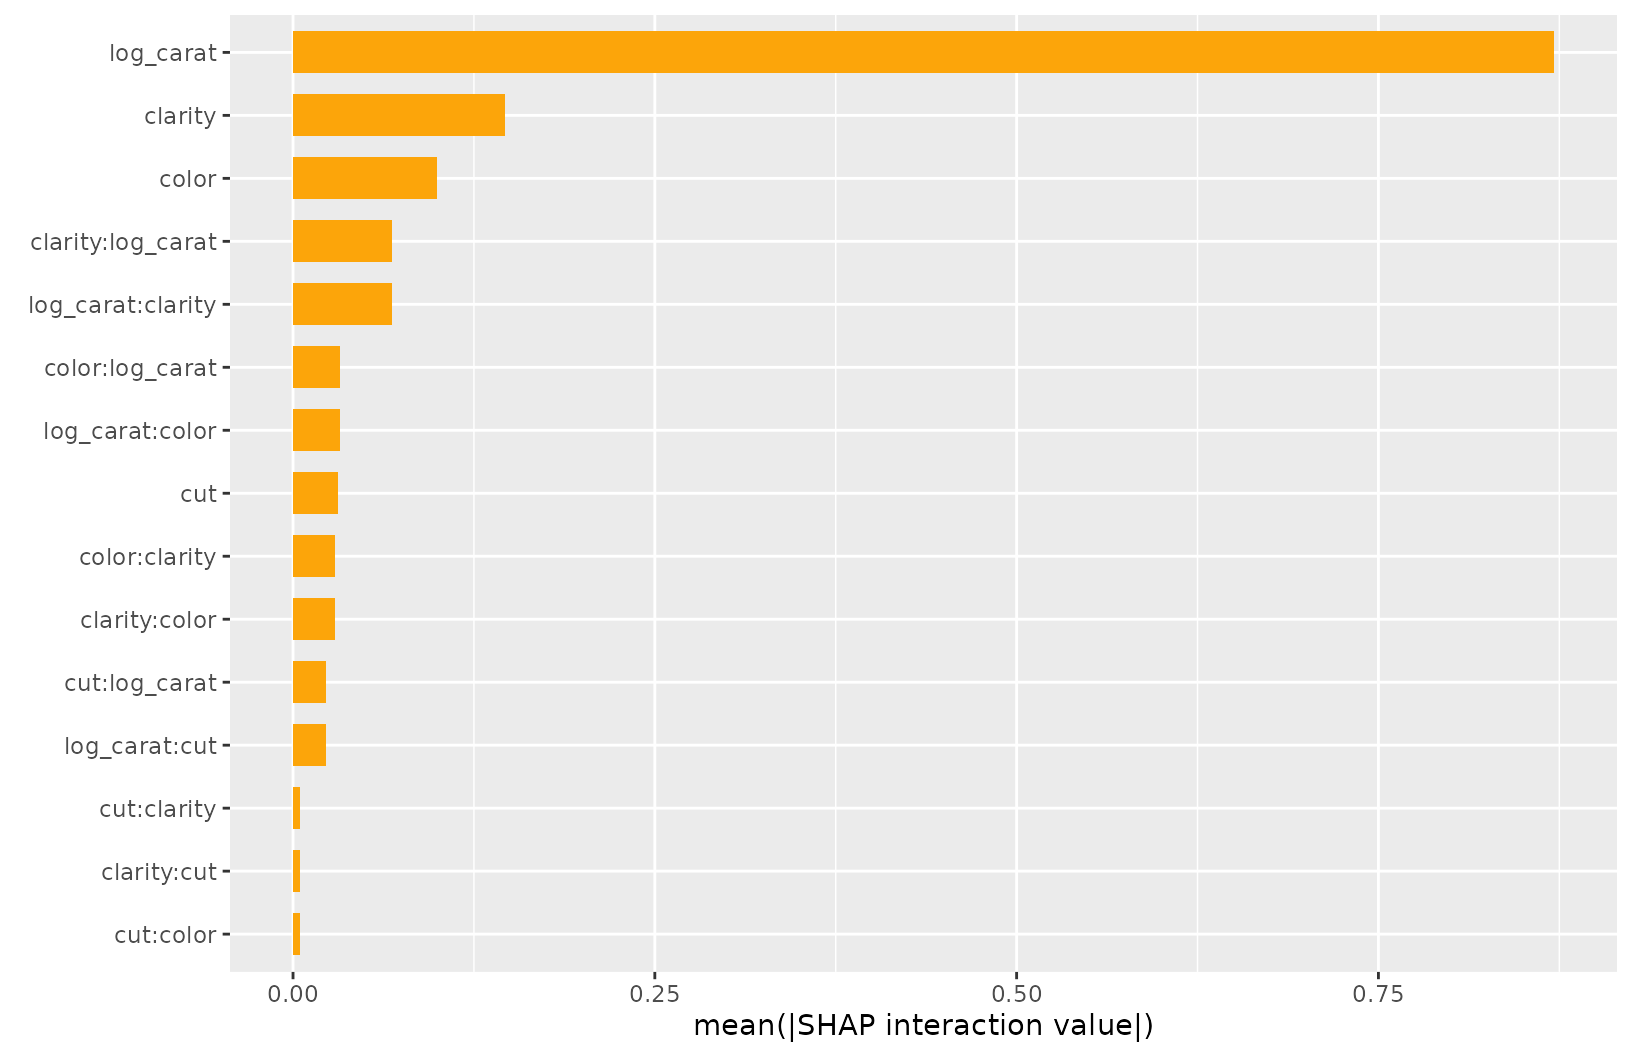
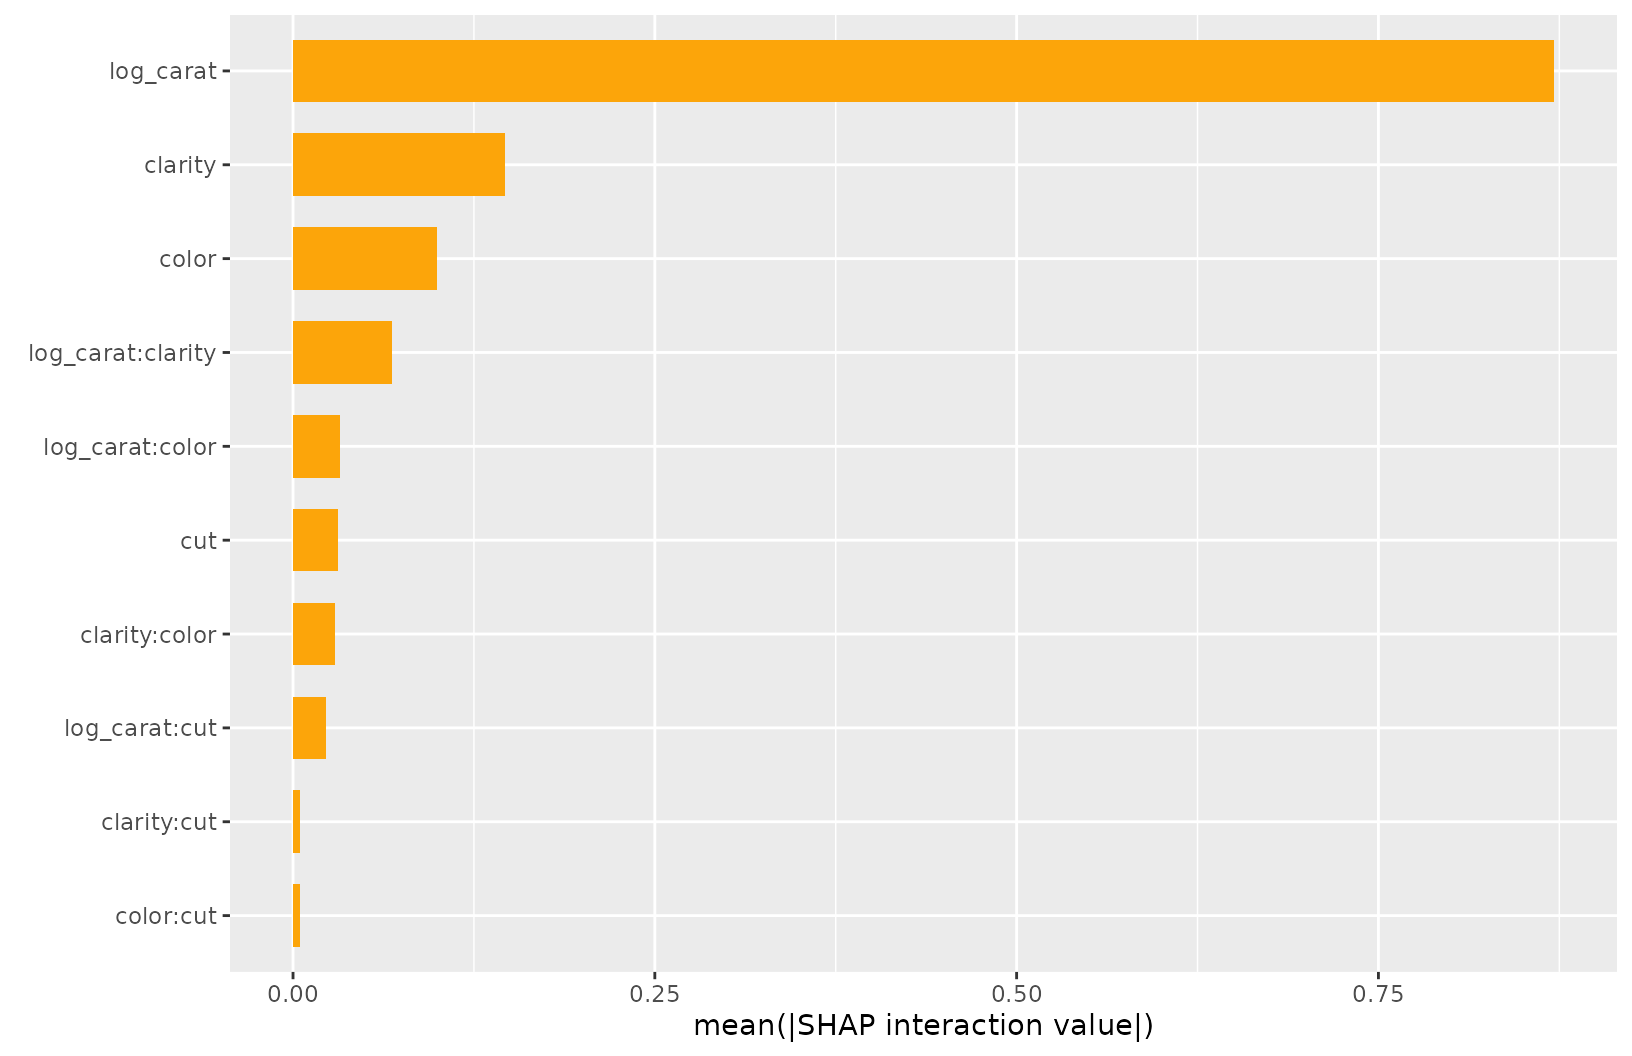
Deploying to gh-pages from @ ModelOriented/shapviz@65ad0724775ab26f69312356ee2ed3acc98b0e36 🚀

diff --git a/news/index.html b/news/index.html
@@ -25,7 +25,7 @@
         <div class="info">
           <span class="partof">part of the <a href="https://github.com/ModelOriented/DrWhy" class="external-link">DrWhy.AI</a>
            developed by the <a href="https://mi2.ai/" class="external-link">MI².AI</a> </span>
-          <span class="version version-default">0.10.1</span>
+          <span class="version version-default">0.10.2</span>
         </div>
       </div>
     </div>
@@ -71,9 +71,17 @@
   <div class="col-md-9 contents">
     <div class="page-header">
       <h1 data-toc-skip>Changelog <small></small></h1>
-      <small>Source: <a href="https://github.com/ModelOriented/shapviz/blob/0.10.1/NEWS.md" class="external-link"><code>NEWS.md</code></a></small>
+      <small>Source: <a href="https://github.com/ModelOriented/shapviz/blob/main/NEWS.md" class="external-link"><code>NEWS.md</code></a></small>
     </div>
 
+    <div class="section level2">
+<h2 class="page-header" data-toc-text="0.10.2" id="shapviz-0102">shapviz 0.10.2<a class="anchor" aria-label="anchor" href="#shapviz-0102"></a></h2>
+<div class="section level4">
+<h4 id="bug-fixes-0-10-2">Bug fixes<a class="anchor" aria-label="anchor" href="#bug-fixes-0-10-2"></a></h4>
+<ul><li>
+<code>sv_interaction(..., type = "bar")</code>: Bars of feature pairs appeared twice, see <a href="%5Bhttps://github.com/ModelOriented/shapviz/issues/178%5D" class="external-link">#178</a>.</li>
+</ul></div>
+</div>
     <div class="section level2">
 <h2 class="page-header" data-toc-text="0.10.1" id="shapviz-0101">shapviz 0.10.1<small>2025-06-23</small><a class="anchor" aria-label="anchor" href="#shapviz-0101"></a></h2>
 <div class="section level4">

diff --git a/authors.html b/authors.html
@@ -25,7 +25,7 @@
         <div class="info">
           <span class="partof">part of the <a href="https://github.com/ModelOriented/DrWhy" class="external-link">DrWhy.AI</a>
            developed by the <a href="https://mi2.ai/" class="external-link">MI².AI</a> </span>
-          <span class="version version-default">0.10.1</span>
+          <span class="version version-default">0.10.2</span>
         </div>
       </div>
     </div>
@@ -87,20 +87,20 @@
     <div class="section level2 citation-section">
     <div>
       <h1 id="citation">Citation</h1>
-      <small class="dont-index">Source: <a href="https://github.com/ModelOriented/shapviz/blob/0.10.1/DESCRIPTION" class="external-link"><code>DESCRIPTION</code></a></small>
+      <small class="dont-index">Source: <a href="https://github.com/ModelOriented/shapviz/blob/main/DESCRIPTION" class="external-link"><code>DESCRIPTION</code></a></small>
     </div>
     </div>
 
 
     <p>Mayer M (2025).
 <em>shapviz: SHAP Visualizations</em>.
-R package version 0.10.1, <a href="https://github.com/ModelOriented/shapviz" class="external-link">https://github.com/ModelOriented/shapviz</a>.
+R package version 0.10.2, <a href="https://github.com/ModelOriented/shapviz" class="external-link">https://github.com/ModelOriented/shapviz</a>.
 </p>
     <pre>@Manual{,
   title = {shapviz: SHAP Visualizations},
   author = {Michael Mayer},
   year = {2025},
-  note = {R package version 0.10.1},
+  note = {R package version 0.10.2},
   url = {https://github.com/ModelOriented/shapviz},
 }</pre>
 

diff --git a/reference/potential_interactions.html b/reference/potential_interactions.html
@@ -26,7 +26,7 @@ variables, see Details."><meta property="og:image" content="/logo.png"><meta nam
         <div class="info">
           <span class="partof">part of the <a href="https://github.com/ModelOriented/DrWhy" class="external-link">DrWhy.AI</a>
            developed by the <a href="https://mi2.ai/" class="external-link">MI².AI</a> </span>
-          <span class="version version-default">0.10.1</span>
+          <span class="version version-default">0.10.2</span>
         </div>
       </div>
     </div>
@@ -72,7 +72,7 @@ variables, see Details."><meta property="og:image" content="/logo.png"><meta nam
   <div class="col-md-9 contents">
     <div class="page-header">
     <h1>Interaction Strength</h1>
-    <small class="dont-index">Source: <a href="https://github.com/ModelOriented/shapviz/blob/0.10.1/R/potential_interactions.R" class="external-link"><code>R/potential_interactions.R</code></a></small>
+    <small class="dont-index">Source: <a href="https://github.com/ModelOriented/shapviz/blob/main/R/potential_interactions.R" class="external-link"><code>R/potential_interactions.R</code></a></small>
     <div class="hidden name"><code>potential_interactions.Rd</code></div>
     </div>
 

diff --git a/reference/shapviz-package.html b/reference/shapviz-package.html
@@ -26,7 +26,7 @@ Visualizations for SHAP (SHapley Additive exPlanations), such as waterfall plots
         <div class="info">
           <span class="partof">part of the <a href="https://github.com/ModelOriented/DrWhy" class="external-link">DrWhy.AI</a>
            developed by the <a href="https://mi2.ai/" class="external-link">MI².AI</a> </span>
-          <span class="version version-default">0.10.1</span>
+          <span class="version version-default">0.10.2</span>
         </div>
       </div>
     </div>
@@ -72,7 +72,7 @@ Visualizations for SHAP (SHapley Additive exPlanations), such as waterfall plots
   <div class="col-md-9 contents">
     <div class="page-header">
     <h1>shapviz: SHAP Visualizations</h1>
-    <small class="dont-index">Source: <a href="https://github.com/ModelOriented/shapviz/blob/0.10.1/R/shapviz-package.R" class="external-link"><code>R/shapviz-package.R</code></a></small>
+    <small class="dont-index">Source: <a href="https://github.com/ModelOriented/shapviz/blob/main/R/shapviz-package.R" class="external-link"><code>R/shapviz-package.R</code></a></small>
     <div class="hidden name"><code>shapviz-package.Rd</code></div>
     </div>
 

diff --git a/reference/sv_dependence2D.html b/reference/sv_dependence2D.html
@@ -31,7 +31,7 @@ has no effect."><meta property="og:image" content="/logo.png"><meta name="robots
         <div class="info">
           <span class="partof">part of the <a href="https://github.com/ModelOriented/DrWhy" class="external-link">DrWhy.AI</a>
            developed by the <a href="https://mi2.ai/" class="external-link">MI².AI</a> </span>
-          <span class="version version-default">0.10.1</span>
+          <span class="version version-default">0.10.2</span>
         </div>
       </div>
     </div>
@@ -77,7 +77,7 @@ has no effect."><meta property="og:image" content="/logo.png"><meta name="robots
   <div class="col-md-9 contents">
     <div class="page-header">
     <h1>2D SHAP Dependence Plot</h1>
-    <small class="dont-index">Source: <a href="https://github.com/ModelOriented/shapviz/blob/0.10.1/R/sv_dependence2D.R" class="external-link"><code>R/sv_dependence2D.R</code></a></small>
+    <small class="dont-index">Source: <a href="https://github.com/ModelOriented/shapviz/blob/main/R/sv_dependence2D.R" class="external-link"><code>R/sv_dependence2D.R</code></a></small>
     <div class="hidden name"><code>sv_dependence2D.Rd</code></div>
     </div>
 

diff --git a/reference/sv_interaction.html b/reference/sv_interaction.html
@@ -33,7 +33,7 @@ Again, due to symmetry, the interaction values are multiplied by two.'><meta pro
         <div class="info">
           <span class="partof">part of the <a href="https://github.com/ModelOriented/DrWhy" class="external-link">DrWhy.AI</a>
            developed by the <a href="https://mi2.ai/" class="external-link">MI².AI</a> </span>
-          <span class="version version-default">0.10.1</span>
+          <span class="version version-default">0.10.2</span>
         </div>
       </div>
     </div>
@@ -79,7 +79,7 @@ Again, due to symmetry, the interaction values are multiplied by two.'><meta pro
   <div class="col-md-9 contents">
     <div class="page-header">
     <h1>SHAP Interaction Plot</h1>
-    <small class="dont-index">Source: <a href="https://github.com/ModelOriented/shapviz/blob/0.10.1/R/sv_interaction.R" class="external-link"><code>R/sv_interaction.R</code></a></small>
+    <small class="dont-index">Source: <a href="https://github.com/ModelOriented/shapviz/blob/main/R/sv_interaction.R" class="external-link"><code>R/sv_interaction.R</code></a></small>
     <div class="hidden name"><code>sv_interaction.Rd</code></div>
     </div>
 

diff --git a/reference/sv_importance.html b/reference/sv_importance.html
@@ -27,7 +27,7 @@ The two types of plots can also be combined.'><meta property="og:image" content=
         <div class="info">
           <span class="partof">part of the <a href="https://github.com/ModelOriented/DrWhy" class="external-link">DrWhy.AI</a>
            developed by the <a href="https://mi2.ai/" class="external-link">MI².AI</a> </span>
-          <span class="version version-default">0.10.1</span>
+          <span class="version version-default">0.10.2</span>
         </div>
       </div>
     </div>
@@ -73,7 +73,7 @@ The two types of plots can also be combined.'><meta property="og:image" content=
   <div class="col-md-9 contents">
     <div class="page-header">
     <h1>SHAP Importance Plots</h1>
-    <small class="dont-index">Source: <a href="https://github.com/ModelOriented/shapviz/blob/0.10.1/R/sv_importance.R" class="external-link"><code>R/sv_importance.R</code></a></small>
+    <small class="dont-index">Source: <a href="https://github.com/ModelOriented/shapviz/blob/main/R/sv_importance.R" class="external-link"><code>R/sv_importance.R</code></a></small>
     <div class="hidden name"><code>sv_importance.Rd</code></div>
     </div>
 

diff --git a/reference/collapse_shap.html b/reference/collapse_shap.html
@@ -28,7 +28,7 @@ original factor."><meta property="og:image" content="/logo.png"><meta name="robo
         <div class="info">
           <span class="partof">part of the <a href="https://github.com/ModelOriented/DrWhy" class="external-link">DrWhy.AI</a>
            developed by the <a href="https://mi2.ai/" class="external-link">MI².AI</a> </span>
-          <span class="version version-default">0.10.1</span>
+          <span class="version version-default">0.10.2</span>
         </div>
       </div>
     </div>
@@ -74,7 +74,7 @@ original factor."><meta property="og:image" content="/logo.png"><meta name="robo
   <div class="col-md-9 contents">
     <div class="page-header">
     <h1>Collapse SHAP values</h1>
-    <small class="dont-index">Source: <a href="https://github.com/ModelOriented/shapviz/blob/0.10.1/R/collapse_shap.R" class="external-link"><code>R/collapse_shap.R</code></a></small>
+    <small class="dont-index">Source: <a href="https://github.com/ModelOriented/shapviz/blob/main/R/collapse_shap.R" class="external-link"><code>R/collapse_shap.R</code></a></small>
     <div class="hidden name"><code>collapse_shap.Rd</code></div>
     </div>
 

diff --git a/reference/sv_waterfall.html b/reference/sv_waterfall.html
@@ -26,7 +26,7 @@ observations are selected, their SHAP values and predictions are averaged."><met
         <div class="info">
           <span class="partof">part of the <a href="https://github.com/ModelOriented/DrWhy" class="external-link">DrWhy.AI</a>
            developed by the <a href="https://mi2.ai/" class="external-link">MI².AI</a> </span>
-          <span class="version version-default">0.10.1</span>
+          <span class="version version-default">0.10.2</span>
         </div>
       </div>
     </div>
@@ -72,7 +72,7 @@ observations are selected, their SHAP values and predictions are averaged."><met
   <div class="col-md-9 contents">
     <div class="page-header">
     <h1>SHAP Waterfall Plot</h1>
-    <small class="dont-index">Source: <a href="https://github.com/ModelOriented/shapviz/blob/0.10.1/R/sv_waterfall.R" class="external-link"><code>R/sv_waterfall.R</code></a></small>
+    <small class="dont-index">Source: <a href="https://github.com/ModelOriented/shapviz/blob/main/R/sv_waterfall.R" class="external-link"><code>R/sv_waterfall.R</code></a></small>
     <div class="hidden name"><code>sv_waterfall.Rd</code></div>
     </div>
 

diff --git a/reference/format_max.html b/reference/format_max.html
@@ -27,7 +27,7 @@ perfectly aligning numbers on plots. Does not use scientific formatting."><meta 
         <div class="info">
           <span class="partof">part of the <a href="https://github.com/ModelOriented/DrWhy" class="external-link">DrWhy.AI</a>
            developed by the <a href="https://mi2.ai/" class="external-link">MI².AI</a> </span>
-          <span class="version version-default">0.10.1</span>
+          <span class="version version-default">0.10.2</span>
         </div>
       </div>
     </div>
@@ -73,7 +73,7 @@ perfectly aligning numbers on plots. Does not use scientific formatting."><meta 
   <div class="col-md-9 contents">
     <div class="page-header">
     <h1>Number Formatter</h1>
-    <small class="dont-index">Source: <a href="https://github.com/ModelOriented/shapviz/blob/0.10.1/R/sv_importance.R" class="external-link"><code>R/sv_importance.R</code></a></small>
+    <small class="dont-index">Source: <a href="https://github.com/ModelOriented/shapviz/blob/main/R/sv_importance.R" class="external-link"><code>R/sv_importance.R</code></a></small>
     <div class="hidden name"><code>format_max.Rd</code></div>
     </div>
 

diff --git a/reference/sv_dependence.html b/reference/sv_dependence.html
@@ -29,7 +29,7 @@ By default, the feature on the color scale is selected via SHAP interactions
         <div class="info">
           <span class="partof">part of the <a href="https://github.com/ModelOriented/DrWhy" class="external-link">DrWhy.AI</a>
            developed by the <a href="https://mi2.ai/" class="external-link">MI².AI</a> </span>
-          <span class="version version-default">0.10.1</span>
+          <span class="version version-default">0.10.2</span>
         </div>
       </div>
     </div>
@@ -75,7 +75,7 @@ By default, the feature on the color scale is selected via SHAP interactions
   <div class="col-md-9 contents">
     <div class="page-header">
     <h1>SHAP Dependence Plot</h1>
-    <small class="dont-index">Source: <a href="https://github.com/ModelOriented/shapviz/blob/0.10.1/R/sv_dependence.R" class="external-link"><code>R/sv_dependence.R</code></a></small>
+    <small class="dont-index">Source: <a href="https://github.com/ModelOriented/shapviz/blob/main/R/sv_dependence.R" class="external-link"><code>R/sv_dependence.R</code></a></small>
     <div class="hidden name"><code>sv_dependence.Rd</code></div>
     </div>
 

diff --git a/reference/dimnames.shapviz.html b/reference/dimnames.shapviz.html
@@ -26,7 +26,7 @@ matrix (and optional SHAP interaction values)."><meta property="og:image" conten
         <div class="info">
           <span class="partof">part of the <a href="https://github.com/ModelOriented/DrWhy" class="external-link">DrWhy.AI</a>
            developed by the <a href="https://mi2.ai/" class="external-link">MI².AI</a> </span>
-          <span class="version version-default">0.10.1</span>
+          <span class="version version-default">0.10.2</span>
         </div>
       </div>
     </div>
@@ -72,7 +72,7 @@ matrix (and optional SHAP interaction values)."><meta property="og:image" conten
   <div class="col-md-9 contents">
     <div class="page-header">
     <h1>Dimnames of "shapviz" Object</h1>
-    <small class="dont-index">Source: <a href="https://github.com/ModelOriented/shapviz/blob/0.10.1/R/methods.R" class="external-link"><code>R/methods.R</code></a></small>
+    <small class="dont-index">Source: <a href="https://github.com/ModelOriented/shapviz/blob/main/R/methods.R" class="external-link"><code>R/methods.R</code></a></small>
     <div class="hidden name"><code>dimnames.shapviz.Rd</code></div>
     </div>
 
